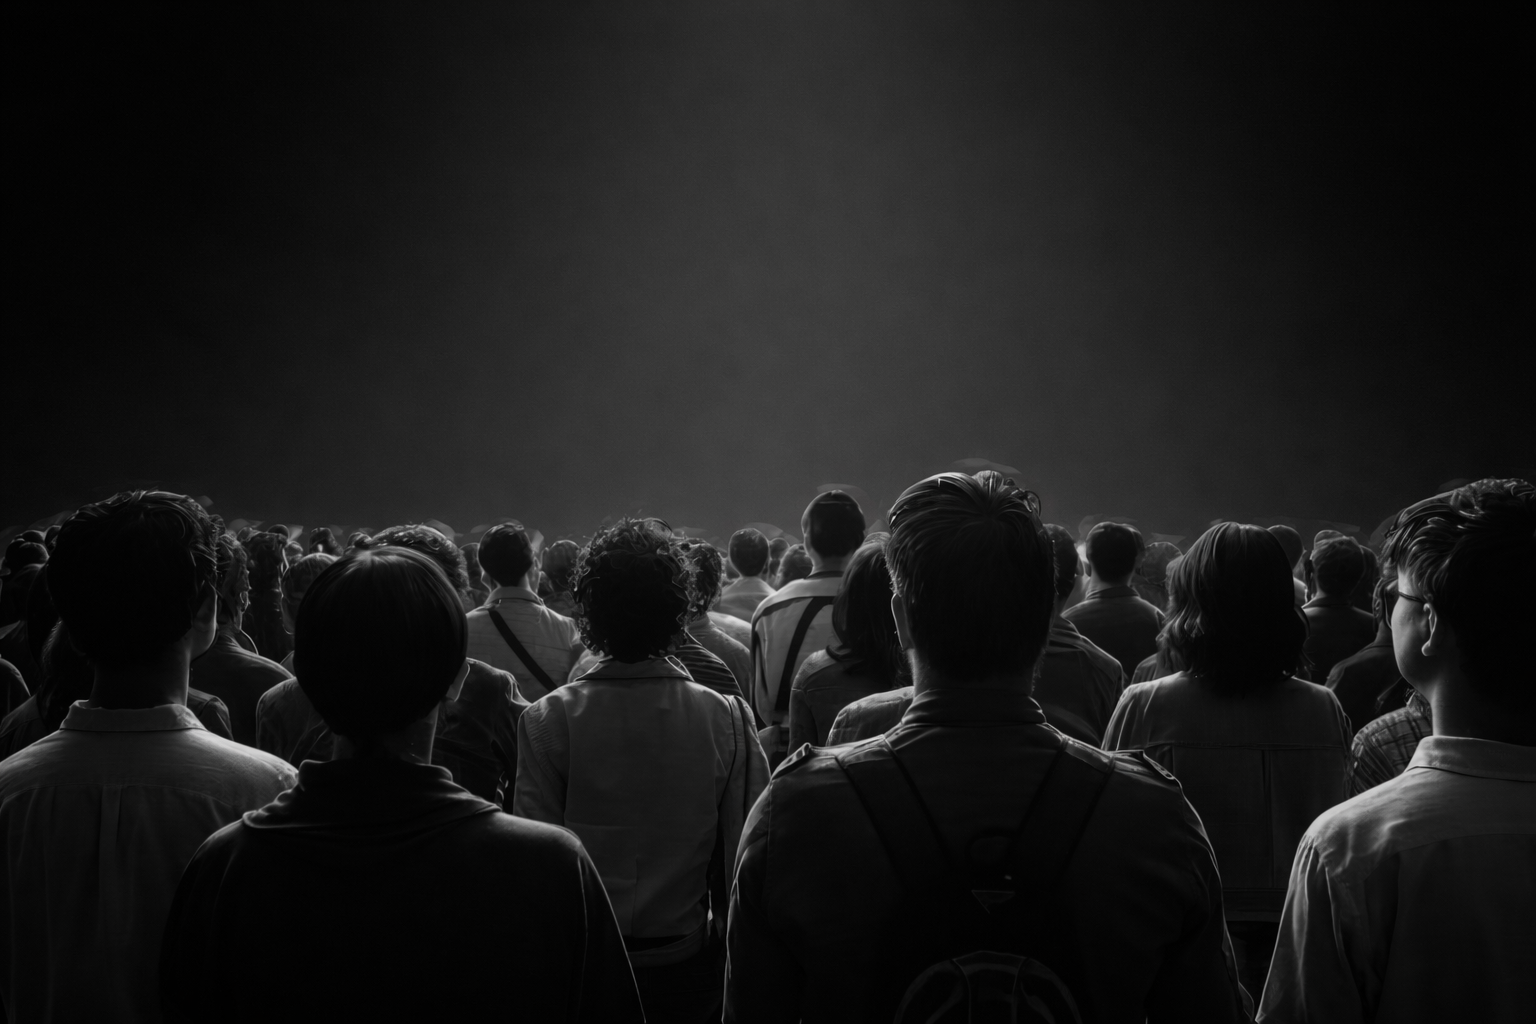
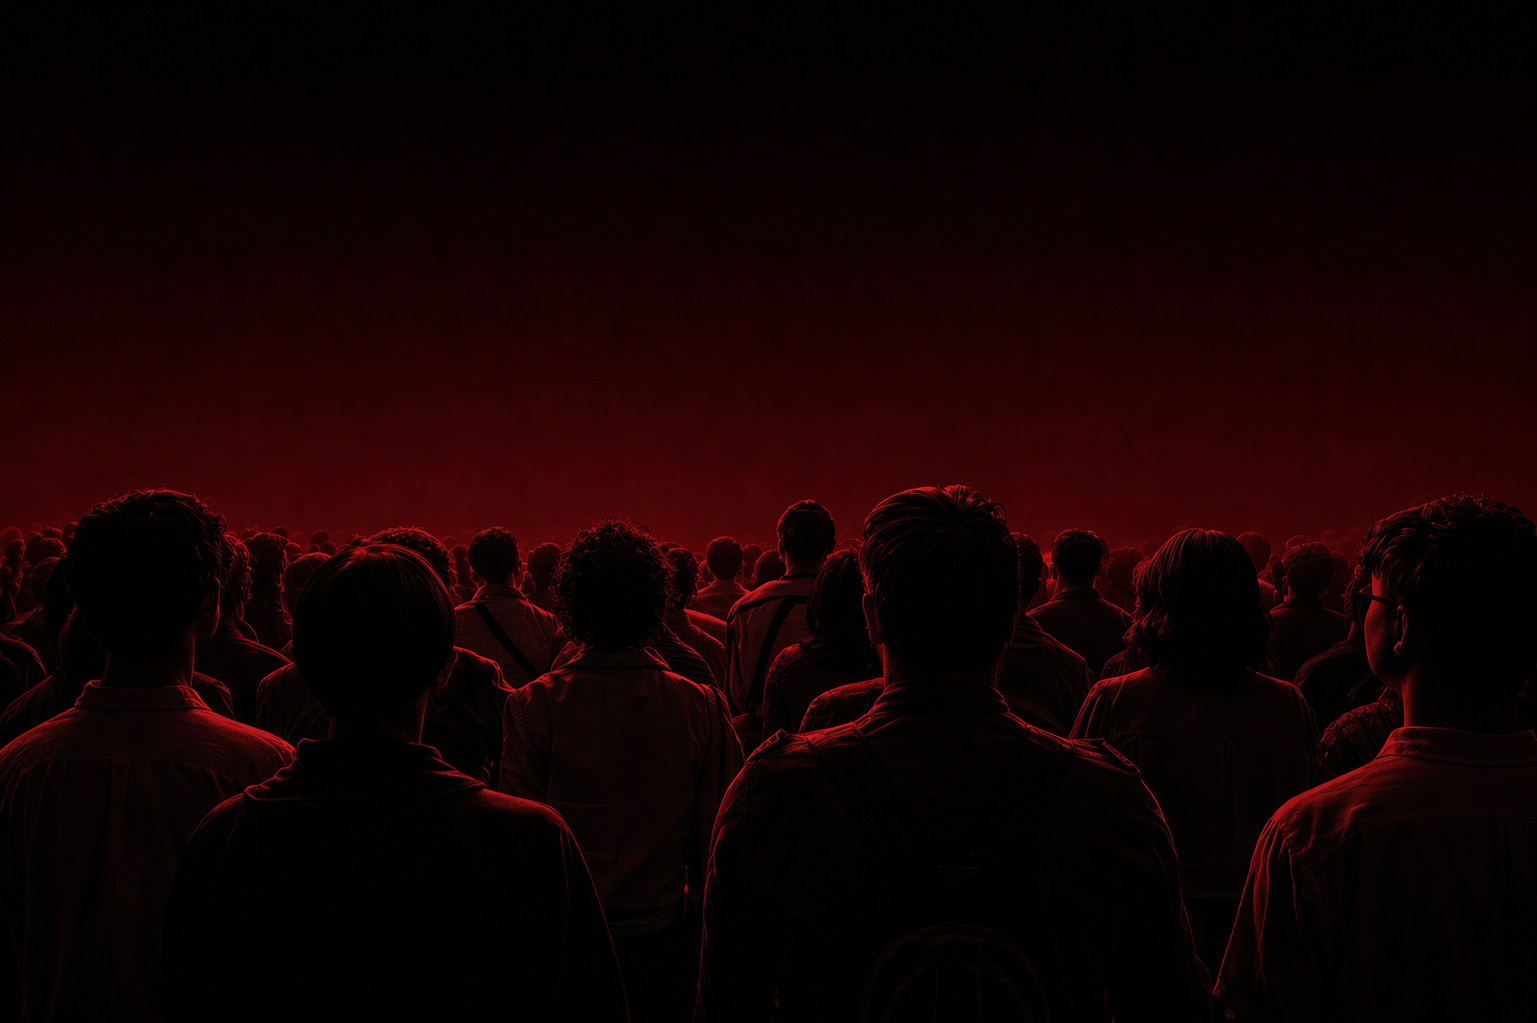
your message

diff --git a/app/components/Footer.tsx b/app/components/Footer.tsx
@@ -1,4 +1,5 @@
 import { FaInstagram, FaFacebook, FaWhatsapp } from "react-icons/fa";
+import { Mail, Phone, MapPin } from "lucide-react";
 export default function Footer() {
   return (
     <footer className="bg-black text-white border-t border-white/10 pt-10 pb-6 bg-black">
@@ -15,27 +16,52 @@ export default function Footer() {
         </div>
 
         {/* Contact */}
-        <div>
-          <h3 className="font-semibold mb-3">Contact</h3>
-          <p className="text-gray-400">📧 ruleyourmarket@eelaagroup.com</p>
-          <p className="text-gray-400">📞 +91 83002 71850</p>
-          <p className="text-gray-400">📍 Dharmapuri, TamilNadu, India</p>
-        </div>
+       <div className="text-white space-y-3">
+  <h3 className="text-lg font-semibold">Contact</h3>
+
+  {/* Email */}
+  <div className="flex items-center gap-3">
+    <Mail className="w-5 h-5 text-gray-400" />
+    <a 
+      href="mailto:ruleyourmarket@eelaagroup.com"
+      className="hover:text-gray-300"
+    >
+      ruleyourmarket@eelaagroup.com
+    </a>
+  </div>
+
+  {/* Phone */}
+  <div className="flex items-center gap-3">
+    <Phone className="w-5 h-5 text-gray-400" />
+    <a 
+      href="tel:+918300271850"
+      className="hover:text-gray-300"
+    >
+      +91 83002 71850
+    </a>
+  </div>
+
+  {/* Location */}
+  <div className="flex items-center gap-3">
+    <MapPin className="w-5 h-5 text-gray-400" />
+    <span>Dharmapuri, TamilNadu, India</span>
+  </div>
+</div>
 
         {/* Social */}
         <div>
           <h3 className="font-semibold mb-3">Follow Us</h3>
           <div className="flex gap-4 text-gray-400">
             
-             <a href="https://instagram.com" target="_blank">
+             <a href="https://instagram.com/eelaagroup?igsh=ZG15ejB5bHpha2l0" target="_blank">
     <FaInstagram className="w-6 h-6 text-white hover:text-pink-500 transition" />
   </a>
 
-  <a href="https://facebook.com" target="_blank">
+  <a href="https://www.facebook.com/profile.php?id=61569106396079" target="_blank">
     <FaFacebook className="w-6 h-6 text-white hover:text-blue-500 transition" />
   </a>
 
-  <a href="https://wa.me/1234567890" target="_blank">
+  <a href="https://wa.me/8300271850" target="_blank">
     <FaWhatsapp className="w-6 h-6 text-white hover:text-green-500 transition" />
   </a>
           </div>

diff --git a/app/page.tsx b/app/page.tsx
@@ -297,7 +297,7 @@ bg-cover bg-center"
 <div className="mt-10 text-center">
   <p className="text-lg md:text-4xl font-semibold text-white/80">
     But it can be fixed by{" "}
-    <span className="text-[#fa0201] font-bold">
+    <span className="text-[#fa0201] font-bold font-futura">
       EELAA GROUP
     </span>
   </p>
@@ -339,8 +339,8 @@ bg-cover bg-center"
   );
 })}
 </div>
-          <p className="mt-10 text-center text-lg font-semibold text-[#fa0201] md:text-3xl">
-            That&apos;s not luck. That&apos;s EELA GROUP Strategy System
+          <p className="mt-10 text-center text-lg font-semibold text-white md:text-3xl">
+            That&apos;s not luck. That&apos;s  <span className="font-futura text-[#fa0201]">EELA GROUP</span> Strategy System
           </p>
         </div>
       </Section>

diff --git a/app/components/Navbar.tsx b/app/components/Navbar.tsx
@@ -64,7 +64,7 @@ export default function Navbar() {
               onClick={() => setIsOpen(false)}
               className={`w-full text-center transition-all duration-300 px-4 py-2 rounded-full ${
                 item.label === "Let's Talk"
-                  ? "bg-white text-black font-semibold"
+                  ? "bg-white text-[#fa0201] font-semibold"
                   : "bg-white/20 border border-white/30 text-white"
               }`}
             >

diff --git a/app/globals.css b/app/globals.css
@@ -52,3 +52,12 @@ body {
 .font-button {
   font-family: "Norwester", "Oswald", sans-serif;
 }
+@font-face {
+  font-family: "Futura";
+  src: url("/fonts/Futura.woff2") format("woff2");
+  font-weight: normal;
+  font-style: normal;
+}
+.font-futura {
+  font-family: "Futura", sans-serif;
+}

diff --git a/app/services/page.tsx b/app/services/page.tsx
@@ -33,7 +33,7 @@ const services = [
     icon: Search,
   },
   {
-    title: "LinkedInn Ads and Optimisation ",
+    title: "LinkedIn Ads and Optimisation ",
     desc: "Engaging content that builds trust.",
     icon: PenTool,
   },
